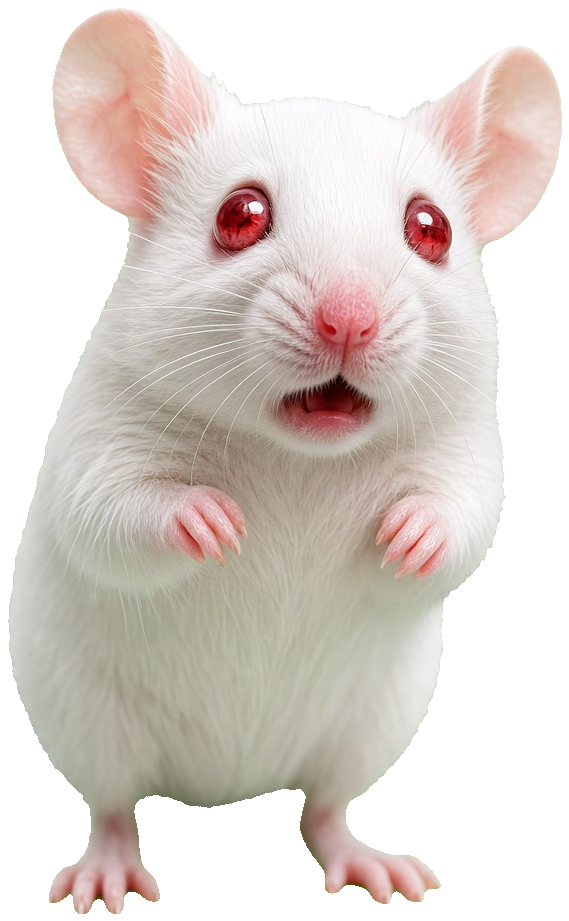
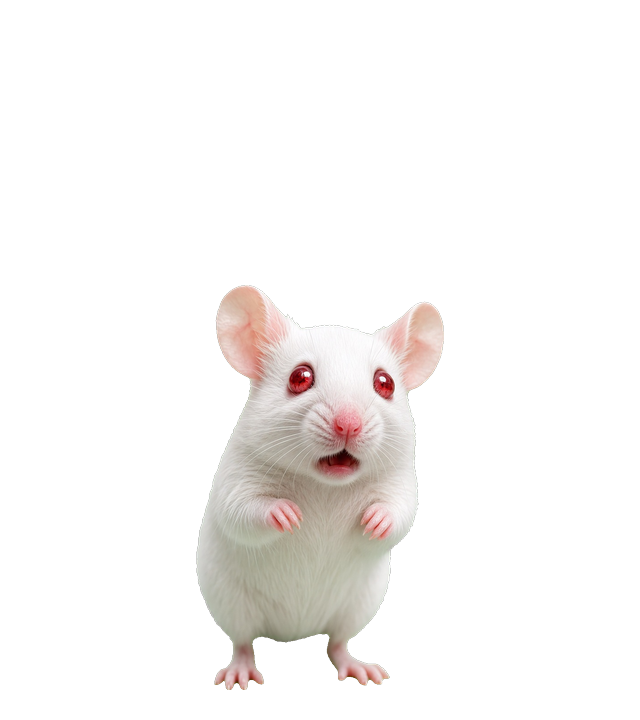
Simplify mouse to idle/posture_up/posture_down loop on uniform canvas
New asset batch shares one 640x720 canvas across frames, so the
per-frame width-percentage scaling hack is gone in favor of a fixed
aspect-ratio canvas. mouse.js now just plays idle -> posture_up (held
3 ticks) -> posture_down (held 3 ticks) -> loop, 200ms/tick.

diff --git a/frontend/index.html b/frontend/index.html
@@ -89,34 +89,25 @@
 
   /* Center hotspot: fixed position/size, doesn't move or spin -
      only its contents animate, so hover detection stays put. */
-  /* Canvas sized to the exact native aspect ratio of the largest frame
-     (posture_up.png, 900x2133px - simultaneously the widest and tallest
-     of the 5 active frames), height picked to roughly match the old
-     19vmin footprint, width derived to preserve that exact ratio
-     (19 * 900/2133 = 8.02vmin). This is NOT object-fit:contain's job
-     anymore - see .mouse-icon below. */
+  /* New asset set (2026-09-20, "New Assets"): every frame shares the
+     exact same 640x720px canvas, unlike the previous set. Measured (via
+     alpha-channel bounding box, not eyeballed) that the character's
+     ground-contact point sits at the same pixel row across every frame
+     checked - strong evidence the whole set already shares one
+     consistent scale, so no per-frame correction like the last asset
+     set needed. width picked to preserve the exact 640:720 ratio at a
+     19vmin height (19 * 640/720 = 16.89vmin). */
   .center {
     position: absolute;
     top: 50%; left: 50%;
-    width: 8.02vmin; height: 19vmin;
-    margin: -9.5vmin 0 0 -4.01vmin;
+    width: 16.89vmin; height: 19vmin;
+    margin: -9.5vmin 0 0 -8.44vmin;
   }
 
-  /* No object-fit, no forced 100%/100% - each frame is deliberately NOT
-     independently scaled to fill the box (that was the bug: object-fit:
-     contain rescales each image based on ITS OWN aspect ratio, so frames
-     cropped with different amounts of margin around the mouse ended up
-     at different apparent sizes). Instead: centered on the canvas via
-     transform, height:auto so it follows the image's own intrinsic
-     ratio, and width set by mouse.js per frame as a % of the canvas
-     equal to that frame's native width / 900px (the canvas-defining
-     frame's native width) - i.e. every frame renders at the SAME true
-     scale relative to the others, just centered, exactly per spec. */
   .mouse-icon {
     position: absolute;
-    top: 50%; left: 50%;
-    transform: translate(-50%, -50%);
-    height: auto;
+    inset: 0;
+    width: 100%; height: 100%;
     opacity: 1;
   }
 

diff --git a/frontend/mouse.js b/frontend/mouse.js
@@ -5,43 +5,22 @@
   if (!img) return;
 
   var BASE = "images/mouse/";
-  var TICK_MS = 300;
+  var TICK_MS = 200;
 
-  // Sequence numbers per the new asset set (2026-09-20, "New Mouse Assets"):
-  // 1=posture_up, 2=posture_up_mid, 3=idle, 4=posture_down_mid, 5=posture_down
-  var FRAME_BY_NUMBER = {
-    1: "posture_up.png",
-    2: "posture_up_mid.png",
-    3: "idle.png",
-    4: "posture_down_mid.png",
-    5: "posture_down.png",
-  };
-
-  // No independent per-frame scaling (that was the bug - see index.html's
-  // .mouse-icon comment): each width here is that frame's native pixel
-  // width divided by 900px, posture_up.png's native width, which is also
-  // the canvas .center is sized to. height:auto (in CSS) keeps each
-  // image's own intrinsic aspect ratio, so this one number per frame is
-  // enough - every frame ends up at its true relative scale, not
-  // independently stretched to fill the box.
-  var WIDTH_PCT = {
-    "posture_up.png": "100%", // 900/900
-    "posture_up_mid.png": "100%", // 900/900
-    "idle.png": "63.22%", // 569/900
-    "posture_down_mid.png": "85.89%", // 773/900
-    "posture_down.png": "91.33%", // 822/900
-  };
-
-  var SEQUENCE = [3, 2, 1, 1, 1, 2, 3, 3, 3, 4, 5, 5, 5, 4, 3, 3];
+  // First animation: idle, posture up, posture down - no mid frames yet.
+  // Hold 3 ticks at top (posture_up) and 3 ticks at bottom (posture_down).
+  var SEQUENCE = [
+    "idle.png",
+    "posture_up.png", "posture_up.png", "posture_up.png",
+    "posture_down.png", "posture_down.png", "posture_down.png",
+  ];
 
   function setFrame(name) {
     img.src = BASE + name;
-    img.style.width = WIDTH_PCT[name] || "100%";
   }
 
   function step(i) {
-    var n = SEQUENCE[i % SEQUENCE.length];
-    setFrame(FRAME_BY_NUMBER[n]);
+    setFrame(SEQUENCE[i % SEQUENCE.length]);
     setTimeout(function () {
       step(i + 1);
     }, TICK_MS);
